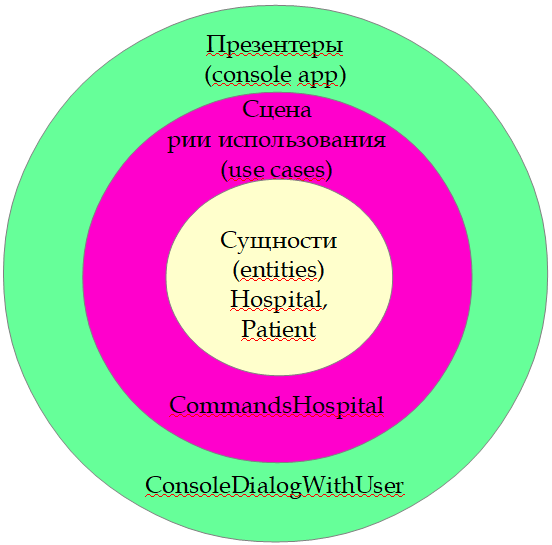
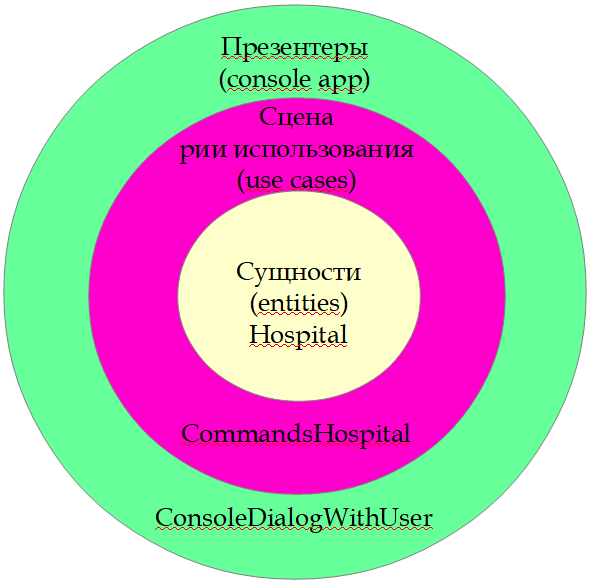
версия 4_3 с исправлениями

diff --git a/commands_hospital.py b/commands_hospital.py
@@ -1,4 +1,4 @@
-from exceptions_hospital import PatientIDNumberError, PatientIDIsNotInHospitalError
+from exceptions_hospital import PatientIDNumberError, PatientNotExistsError
 
 
 class CommandsHospital:
@@ -13,49 +13,49 @@ class CommandsHospital:
         for status, count in status_counts.items():
             if count != 0:
                 calculate_statistics += f"\t- в статусе \"{status}\": {count} чел.\n"
-        self.dialog.output_to_user(calculate_statistics.rstrip("\n"))
+        self.dialog.send_message(calculate_statistics.rstrip("\n"))
 
     def get_status_patient(self):
         try:
-            patient_id = self.dialog.get_patient_id_from_user()
+            patient_id = self.dialog.request_patient_id()
             status_name = self.hospital.get_status_name_by_patient_id(patient_id)
-            self.dialog.output_to_user(f"Статус пациента: \"{status_name}\"")
-        except (PatientIDNumberError, PatientIDIsNotInHospitalError) as err:
-            return self.dialog.output_to_user(err)
+            self.dialog.send_message(f"Статус пациента: \"{status_name}\"")
+        except (PatientIDNumberError, PatientNotExistsError) as err:
+            self.dialog.send_message(err)
 
     def patient_status_up(self):
         try:
-            patient_id = self.dialog.get_patient_id_from_user()
+            patient_id = self.dialog.request_patient_id()
             if self.hospital.can_status_up(patient_id):
                 self.hospital.status_up(patient_id)
                 status_name = self.hospital.get_status_name_by_patient_id(patient_id)
-                self.dialog.output_to_user(f"Новый статус пациента: \"{status_name}\"")
+                self.dialog.send_message(f"Новый статус пациента: \"{status_name}\"")
             else:
-                if self.dialog.patient_discharge_request():
+                if self.dialog.request_confirm_for_patient_discharge():
                     self.hospital.discharge(patient_id)
-                    self.dialog.output_to_user("Пациент выписан из больницы")
+                    self.dialog.send_message("Пациент выписан из больницы")
                 else:
                     status_name = self.hospital.get_status_name_by_patient_id(patient_id)
-                    self.dialog.output_to_user(f"Пациент остался в статусе \"{status_name}\"")
-        except (PatientIDNumberError, PatientIDIsNotInHospitalError) as err:
-            return self.dialog.output_to_user(err)
+                    self.dialog.send_message(f"Пациент остался в статусе \"{status_name}\"")
+        except (PatientIDNumberError, PatientNotExistsError) as err:
+            self.dialog.send_message(err)
 
     def discharge_patient(self):
         try:
-            patient_id = self.dialog.get_patient_id_from_user()
+            patient_id = self.dialog.request_patient_id()
             self.hospital.discharge(patient_id)
-            self.dialog.output_to_user("Пациент выписан из больницы")
-        except (PatientIDNumberError, PatientIDIsNotInHospitalError) as err:
-            return self.dialog.output_to_user(err)
+            self.dialog.send_message("Пациент выписан из больницы")
+        except (PatientIDNumberError, PatientNotExistsError) as err:
+            self.dialog.send_message(err)
 
     def patient_status_down(self):
         try:
-            patient_id = self.dialog.get_patient_id_from_user()
+            patient_id = self.dialog.request_patient_id()
             if self.hospital.can_status_down(patient_id):
                 self.hospital.status_down(patient_id)
                 status_name = self.hospital.get_status_name_by_patient_id(patient_id)
-                self.dialog.output_to_user(f"Новый статус пациента: \"{status_name}\"")
+                self.dialog.send_message(f"Новый статус пациента: \"{status_name}\"")
             else:
-                self.dialog.output_to_user("Ошибка. Нельзя понизить самый низкий статус (наши пациенты не умирают)")
-        except (PatientIDNumberError, PatientIDIsNotInHospitalError) as err:
-            return self.dialog.output_to_user(err)
+                self.dialog.send_message("Ошибка. Нельзя понизить самый низкий статус (наши пациенты не умирают)")
+        except (PatientIDNumberError, PatientNotExistsError) as err:
+            self.dialog.send_message(err)

diff --git a/hospital.py b/hospital.py
@@ -1,0 +1,66 @@
+from hospital_enums.status import Status
+from exceptions_hospital import PatientNotExistsError
+from config import Config
+
+
+class Hospital:
+    """Класс корневой бизнес логики (hospital) - entity"""
+
+    def __init__(self,
+                 patients_count=Config.DEFAULT_PATIENTS_COUNT,
+                 patient_status=Config.DEFAULT_PATIENT_STATUS):
+        self._patients_count = patients_count
+        self._patient_status = patient_status
+        self._create_list_hospital_patients()
+
+    def _create_list_hospital_patients(self):
+        self.patients_list = [Config.DEFAULT_PATIENT_STATUS.id_code for _ in range(self._patients_count)]
+
+    def _verify_patient_id(self, patient_id):
+        if patient_id > len(self.patients_list):
+            raise PatientNotExistsError()
+
+    def get_total_patients(self):
+        return len(self.patients_list)
+
+    def get_status_counts(self):
+        status_counts = {}
+        for status in Status:
+            status_counts[status.name_value] = self.patients_list.count(status.id_code)
+        return status_counts
+
+    def get_status_name_by_patient_id(self, patient_id):
+        self._verify_patient_id(patient_id)
+        patient_index = patient_id - 1
+        status_code = self.patients_list[patient_index]
+        status_patient = Status.get_status_by_code(status_code)
+        return status_patient.name_value
+
+    def can_status_up(self, patient_id) -> bool:
+        self._verify_patient_id(patient_id)
+        patient_index = patient_id - 1
+        status_code = self.patients_list[patient_index]
+        return status_code < Status.get_highest_status().id_code
+
+    def status_up(self, patient_id):
+        self._verify_patient_id(patient_id)
+        patient_index = patient_id - 1
+        status_code = self.patients_list[patient_index]
+        self.patients_list[patient_index] = status_code + 1
+
+    def can_status_down(self, patient_id) -> bool:
+        self._verify_patient_id(patient_id)
+        patient_index = patient_id - 1
+        status_code = self.patients_list[patient_index]
+        return status_code > Status.get_lowest_status().id_code
+
+    def status_down(self, patient_id):
+        self._verify_patient_id(patient_id)
+        patient_index = patient_id - 1
+        status_code = self.patients_list[patient_index]
+        self.patients_list[patient_index] = status_code - 1
+
+    def discharge(self, patient_id):
+        self._verify_patient_id(patient_id)
+        patient_index = patient_id - 1
+        del self.patients_list[patient_index]

diff --git a/console_dialog_with_user.py b/console_dialog_with_user.py
@@ -5,31 +5,28 @@ class ConsoleDialogWithUser:
     """Класс диалога с пользователем при помощи консольного ввода/вывода"""
 
     @staticmethod
-    def get_command_from_user() -> str:
+    def request_command() -> str:
         return input("Введите команду: ").strip().lower()
 
-    def get_patient_id_from_user(self) -> int:
-        patient_id = input("Введите ID пациента: ").strip().lower()
-        return self._check_patient_id(patient_id)
+    def request_patient_id(self) -> int:
+        patient_id_text = input("Введите ID пациента: ").strip().lower()
+        return self._convert_text_to_patient_id(patient_id_text)
 
     @staticmethod
-    def _check_patient_id(patient_id):
+    def _convert_text_to_patient_id(patient_id_text):
         try:
-            patient_id = int(patient_id)
+            patient_id = int(patient_id_text)
             if patient_id <= 0:
-                raise PatientIDNumberError("ID пациента должно быть числом (целым, положительным)")
+                raise ValueError()
+            return patient_id
         except ValueError:
-            raise PatientIDNumberError("ID пациента должно быть числом (целым, положительным)")
-        return patient_id
+            raise PatientIDNumberError()
 
     @staticmethod
-    def patient_discharge_request() -> bool:
-        discharge_input = input("Желаете этого клиента выписать? (да/нет): ").strip().lower()
-        if discharge_input == 'да':
-            return True
-        else:
-            return False
+    def request_confirm_for_patient_discharge() -> bool:
+        response = input("Желаете этого клиента выписать? (да/нет): ").strip().lower()
+        return response == "да"
 
     @staticmethod
-    def output_to_user(value):
-        print(f"{value}\n")
+    def send_message(text):
+        print(f"{text}\n")

diff --git a/exceptions_hospital.py b/exceptions_hospital.py
@@ -1,28 +1,18 @@
-class HospitalError(Exception):
-    """Класс исключений при работе с hospital"""
-
-    def __init__(self, *args):
-        self.message = args[0] if args else None
-
-    def __str__(self):
-        return f"Ошибка. {self.message}"
-
-
-class PatientIDIsNotInHospitalError(HospitalError):
+class PatientNotExistsError(Exception):
     """Класс исключения отсутствия patient_id в hospital"""
 
     def __init__(self, *args):
         self.message = args[0] if args else None
 
     def __str__(self):
-        return f"Ошибка. {self.message}"
+        return "Ошибка. В больнице нет пациента с таким ID"
 
 
-class PatientIDNumberError(HospitalError):
+class PatientIDNumberError(Exception):
     """Класс исключения patient_id не валидное число"""
 
     def __init__(self, *args):
         self.message = args[0] if args else None
 
     def __str__(self):
-        return f"Ошибка. {self.message}"
+        return "Ошибка. ID пациента должно быть числом (целым, положительным)"

diff --git a/hospital_enums/status.py b/hospital_enums/status.py
@@ -14,19 +14,22 @@ class Status(Enum):
         self.name_value = status_name
 
     @classmethod
-    def get_last_status(cls):
-        last_status = None
+    def get_highest_status(cls):
+        """Метод получения самого высокого статуса"""
+        highest_status = None
         for status in cls:
-            last_status = status
-        return last_status
+            highest_status = status
+        return highest_status
 
     @classmethod
-    def get_first_status(cls):
+    def get_lowest_status(cls):
+        """Метод получения самого низкого статуса"""
         return next(iter(cls))
 
     @classmethod
-    def get_status_by_code(cls, code):
+    def get_status_by_code(cls, status_code):
+        """Метод получения статуса по коду (status_code)"""
         for status in cls:
-            if status.id_code == code:
+            if status.id_code == status_code:
                 return status
         return None

diff --git a/application.py b/application.py
@@ -10,7 +10,7 @@ class Application:
 
     def main(self):
         while True:
-            command = self.dialog.get_command_from_user()
+            command = self.dialog.request_command()
             if command in Commands.STATUS_UP.value:
                 self.command_hospital.patient_status_up()
 
@@ -30,4 +30,4 @@ class Application:
                 return False
 
             else:
-                self.dialog.output_to_user("Неизвестная команда! Попробуйте ещё раз")
+                self.dialog.send_message("Неизвестная команда! Попробуйте ещё раз")

diff --git a/main.py b/main.py
@@ -1,5 +1,5 @@
 from application import Application
-from hospital_entities.hospital import Hospital
+from hospital import Hospital
 from console_dialog_with_user import ConsoleDialogWithUser
 from commands_hospital import CommandsHospital
 

diff --git a/README.md b/README.md
@@ -52,9 +52,7 @@
 
 ```mermaid
 classDiagram
-    Hospital --|> Patient
     Hospital --|> Status
-    Patient --|> Status
     Hospital <|-- CommandsHospital
     CommandsHospital --|> ConsoleDialogWithUser
     Application --|> CommandsHospital
@@ -63,11 +61,11 @@ classDiagram
     Application <|-- Main
     
     class Hospital{
-      -patients_count
-      -patient
-      -patients_list
+      _patients_count
+      _patient_status
+      patients_list
       -_create_list_hospital_patients()
-      -_is_valid_patient_id(patient_id)
+      -_verify_patient_id(patient_id)
       -get_total_patients()
       -get_status_counts()
       -get_status_name_by_patient_id(patient_id)
@@ -77,42 +75,39 @@ classDiagram
       -status_down(patient_id)
       -discharge(patient_id)
     }
-    class Patient{
-      -status
-    }
     
     class Status{
-      -ID_00
-      -ID_01
-      -ID_02
-      -ID_03
-      -id_code
-      -name_value
-      -get_last_status()
-      -get_first_status()
+      ID_00
+      ID_01
+      ID_02
+      ID_03
+      id_code
+      name_value
+      -get_highest_status()
+      -get_lowest_status()
       -get_status_by_code(code)
     }
     class Commands{
-      -GET_STATUS
-      -STATUS_UP
-      -STATUS_DOWN
-      -DISCHARGE
-      -CALCULATE_STATISTICS
-      -STOP
+      GET_STATUS
+      STATUS_UP
+      STATUS_DOWN
+      DISCHARGE
+      CALCULATE_STATISTICS
+      STOP
 
-      -command_ru
-      -command_en
+      command_ru
+      command_en
     }
     class ConsoleDialogWithUser{
-        get_command_from_user()
-        get_patient_id_from_user()
-        _check_patient_id(patient_id)
-        patient_discharge_request()
-        output_to_user(value)
+        -request_command()
+        -request_patient_id()
+        -_convert_text_to_patient_id(patient_id_text)
+        -request_confirm_for_patient_discharge()
+        -send_message(text)
     }
     class CommandsHospital{
-      -hospital
-      -dialog_with_user
+      hospital
+      dialog_with_user
     
       -calculate_hospital_statistics()
       -get_status_patient()
@@ -137,9 +132,7 @@ classDiagram
 ### Связи
 ```mermaid
 stateDiagram-v2
-    Hospital --> Patient
     Hospital --> Status
-    Patient --> Status
     CommandsHospital --> Hospital
     CommandsHospital --> ConsoleDialogWithUser
     Application --> CommandsHospital
